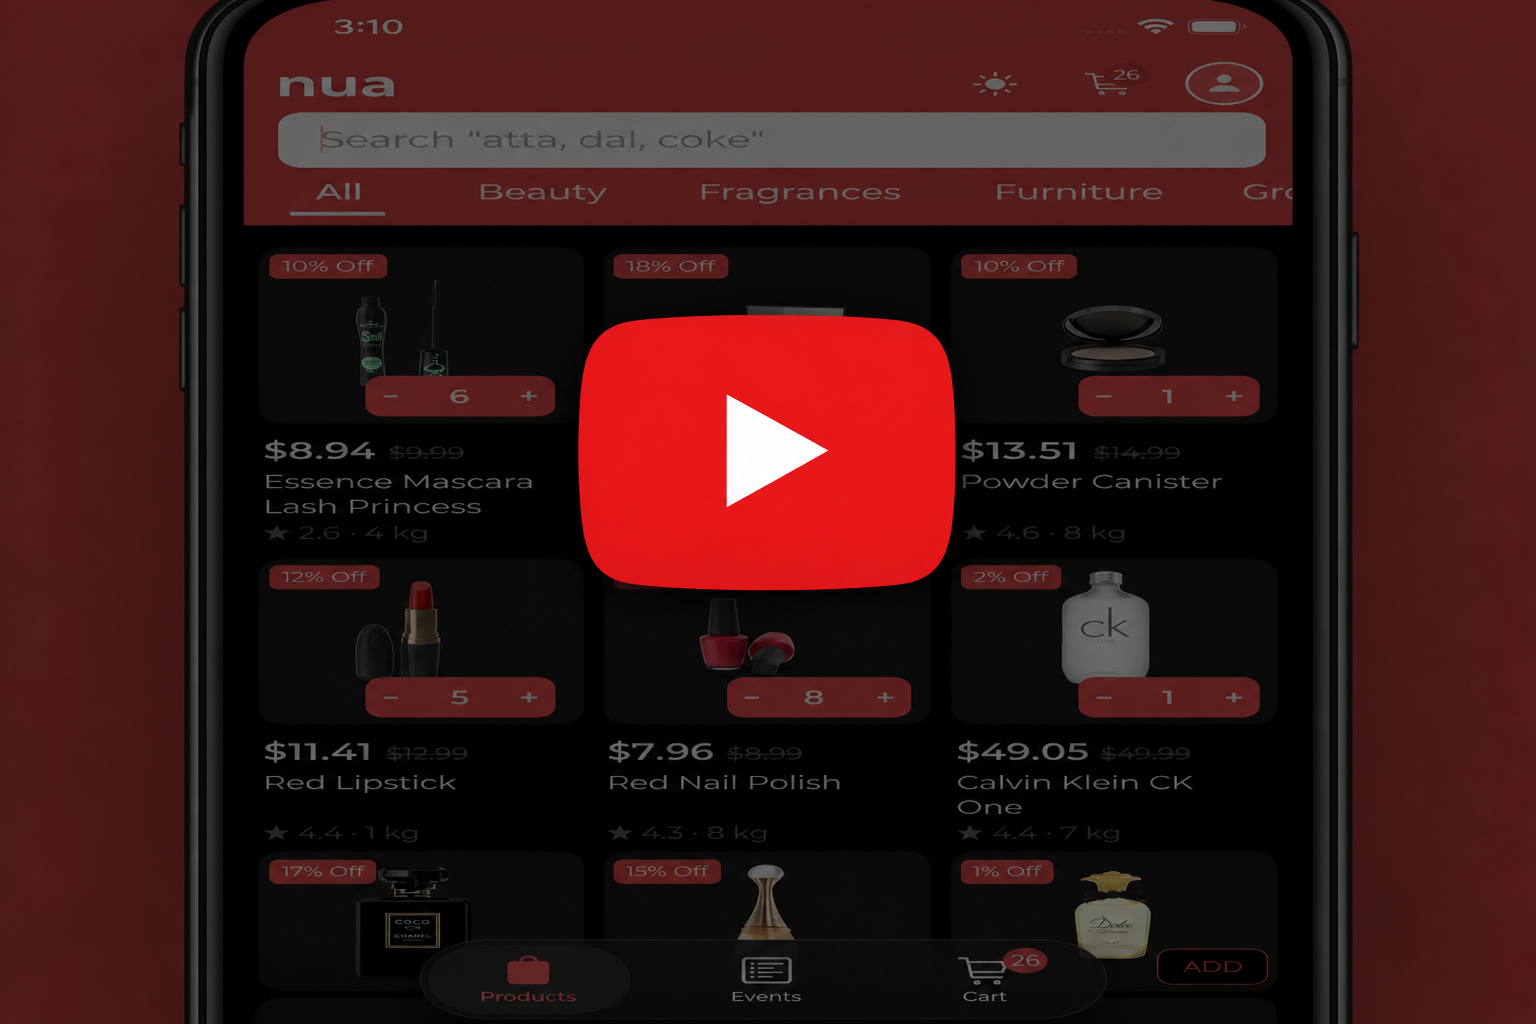
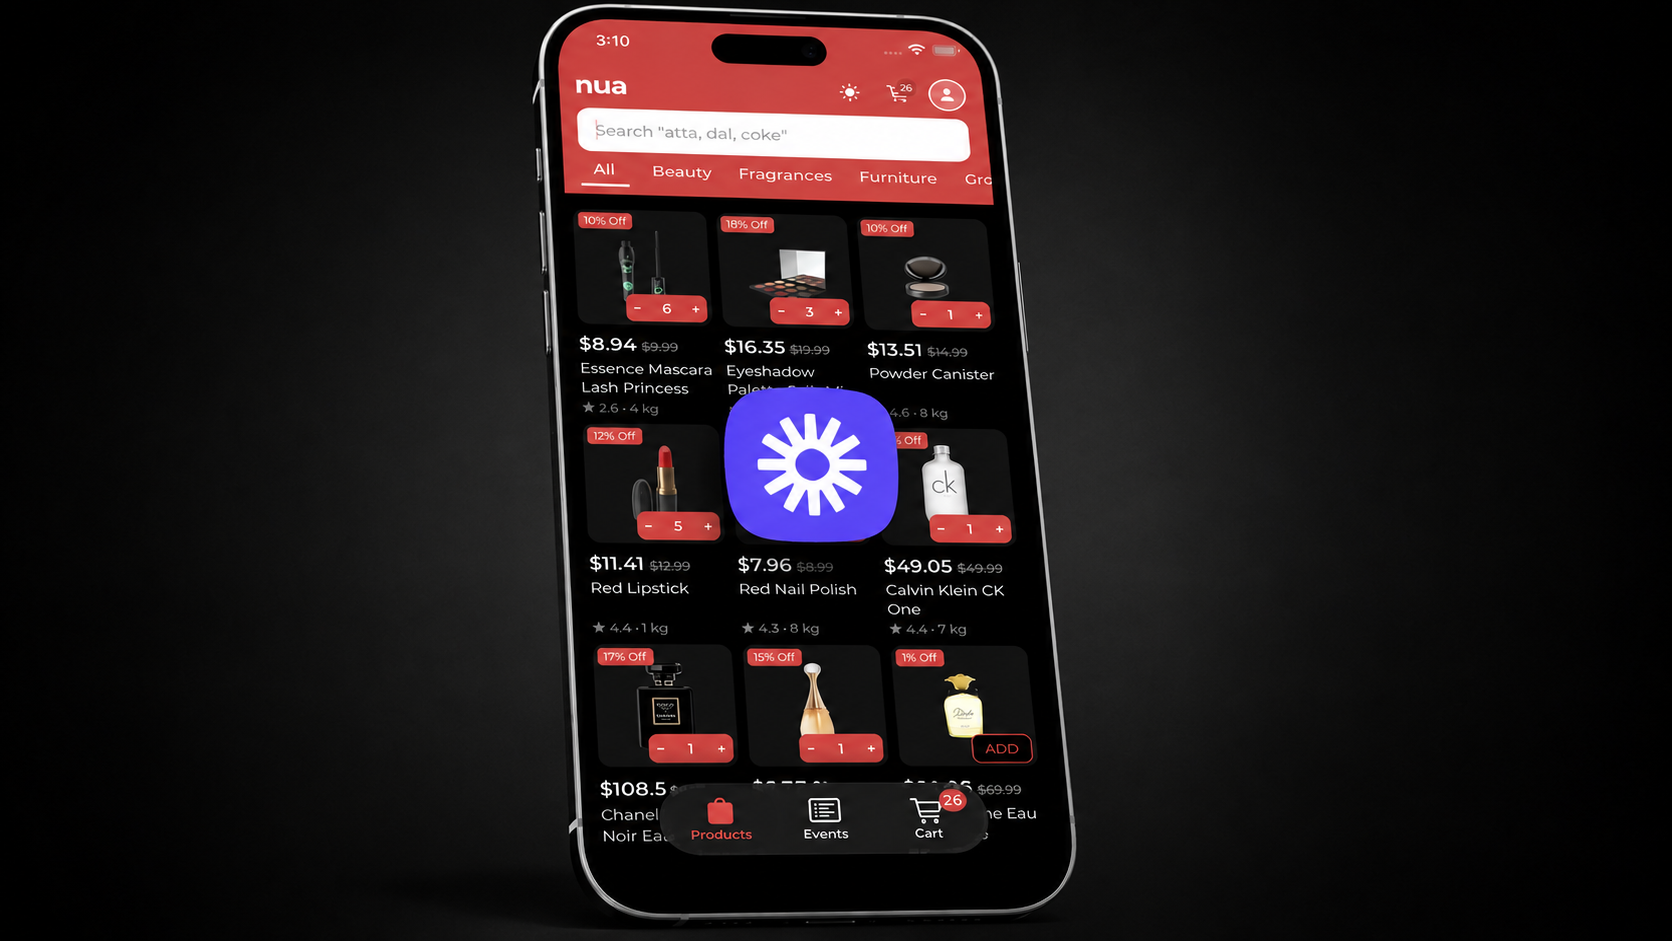
Update demo thumbnail image for improved visual representation in documentation.

diff --git a/README.md b/README.md
@@ -8,18 +8,7 @@ The app also tracks a small set of client-side analytics events, persists cart a
 
 ## App Demo
 
-<p align="center">
-  <iframe
-    width="800"
-    height="450"
-    src="https://www.loom.com/embed/d35e3d5de622400a98fef574fb8f560b?hide_owner=true&hide_share=true&hide_title=true&hideEmbedTopBar=true"
-    title="Nua app walkthrough"
-    frameborder="0"
-    allow="accelerometer; autoplay; clipboard-write; encrypted-media; gyroscope; picture-in-picture; fullscreen"
-    allowfullscreen
-    style="max-width: 100%; border: 0; border-radius: 12px;">
-  </iframe>
-</p>
+
 
 <p align="center">
   <a href="https://www.loom.com/share/d35e3d5de622400a98fef574fb8f560b">
@@ -222,19 +211,6 @@ DummyJSON has no combined search + category URL. When both are set, the app sear
 - List keys: product id (string).
 - `ProductCard` is not wrapped in `React.memo`.
 
-## App Stats
-
-Counted from this repository (not estimated coverage).
-
-| Stat | Value |
-| --- | --- |
-| Screens | 5 (Products, Events, Cart, Product detail, Return policy) |
-| Tab routes | 3 |
-| Component files (`src/**/components`) | 23 |
-| DummyJSON endpoints used | 5 |
-| `src/` TypeScript files | 71 (36 `.ts`, 35 `.tsx`) |
-| Runtime dependencies | 31 |
-| Dev dependencies | 4 |
 
 ## Architecture / Project Structure
 
